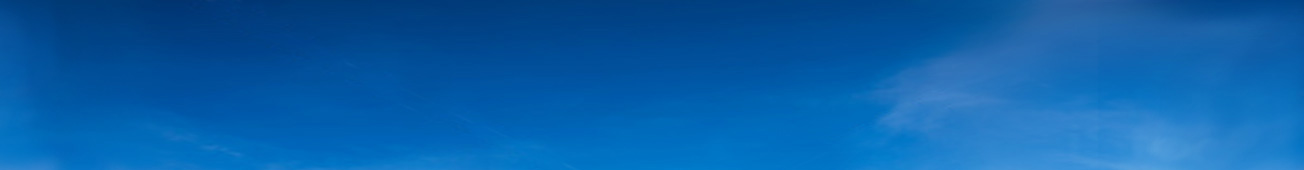
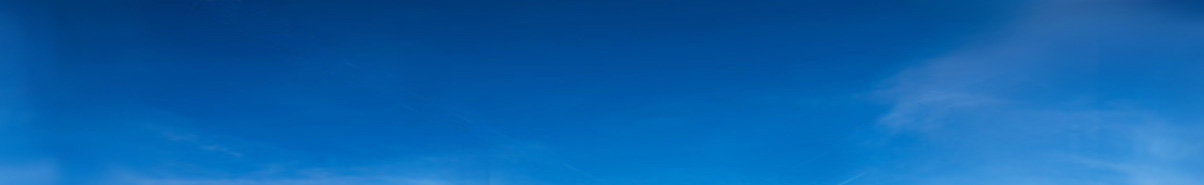
Revert back to sky!

diff --git a/css/layout.css b/css/layout.css
@@ -3,10 +3,10 @@
 
 #additional-background {
   overflow: hidden;
-  background: url(../images/bg_homepage.jpg) 50% 0 repeat-x;
+  background: url(../images/sky.jpg) 50% 0 repeat-x;
 }
 #additional-background.no-mainstage {
-  background: url(../images/bg_short.jpg) 50% 0 repeat-x;
+  background: url(../images/sky_short.jpg) 50% 0 repeat-x;
 }
 
 /* =Header
